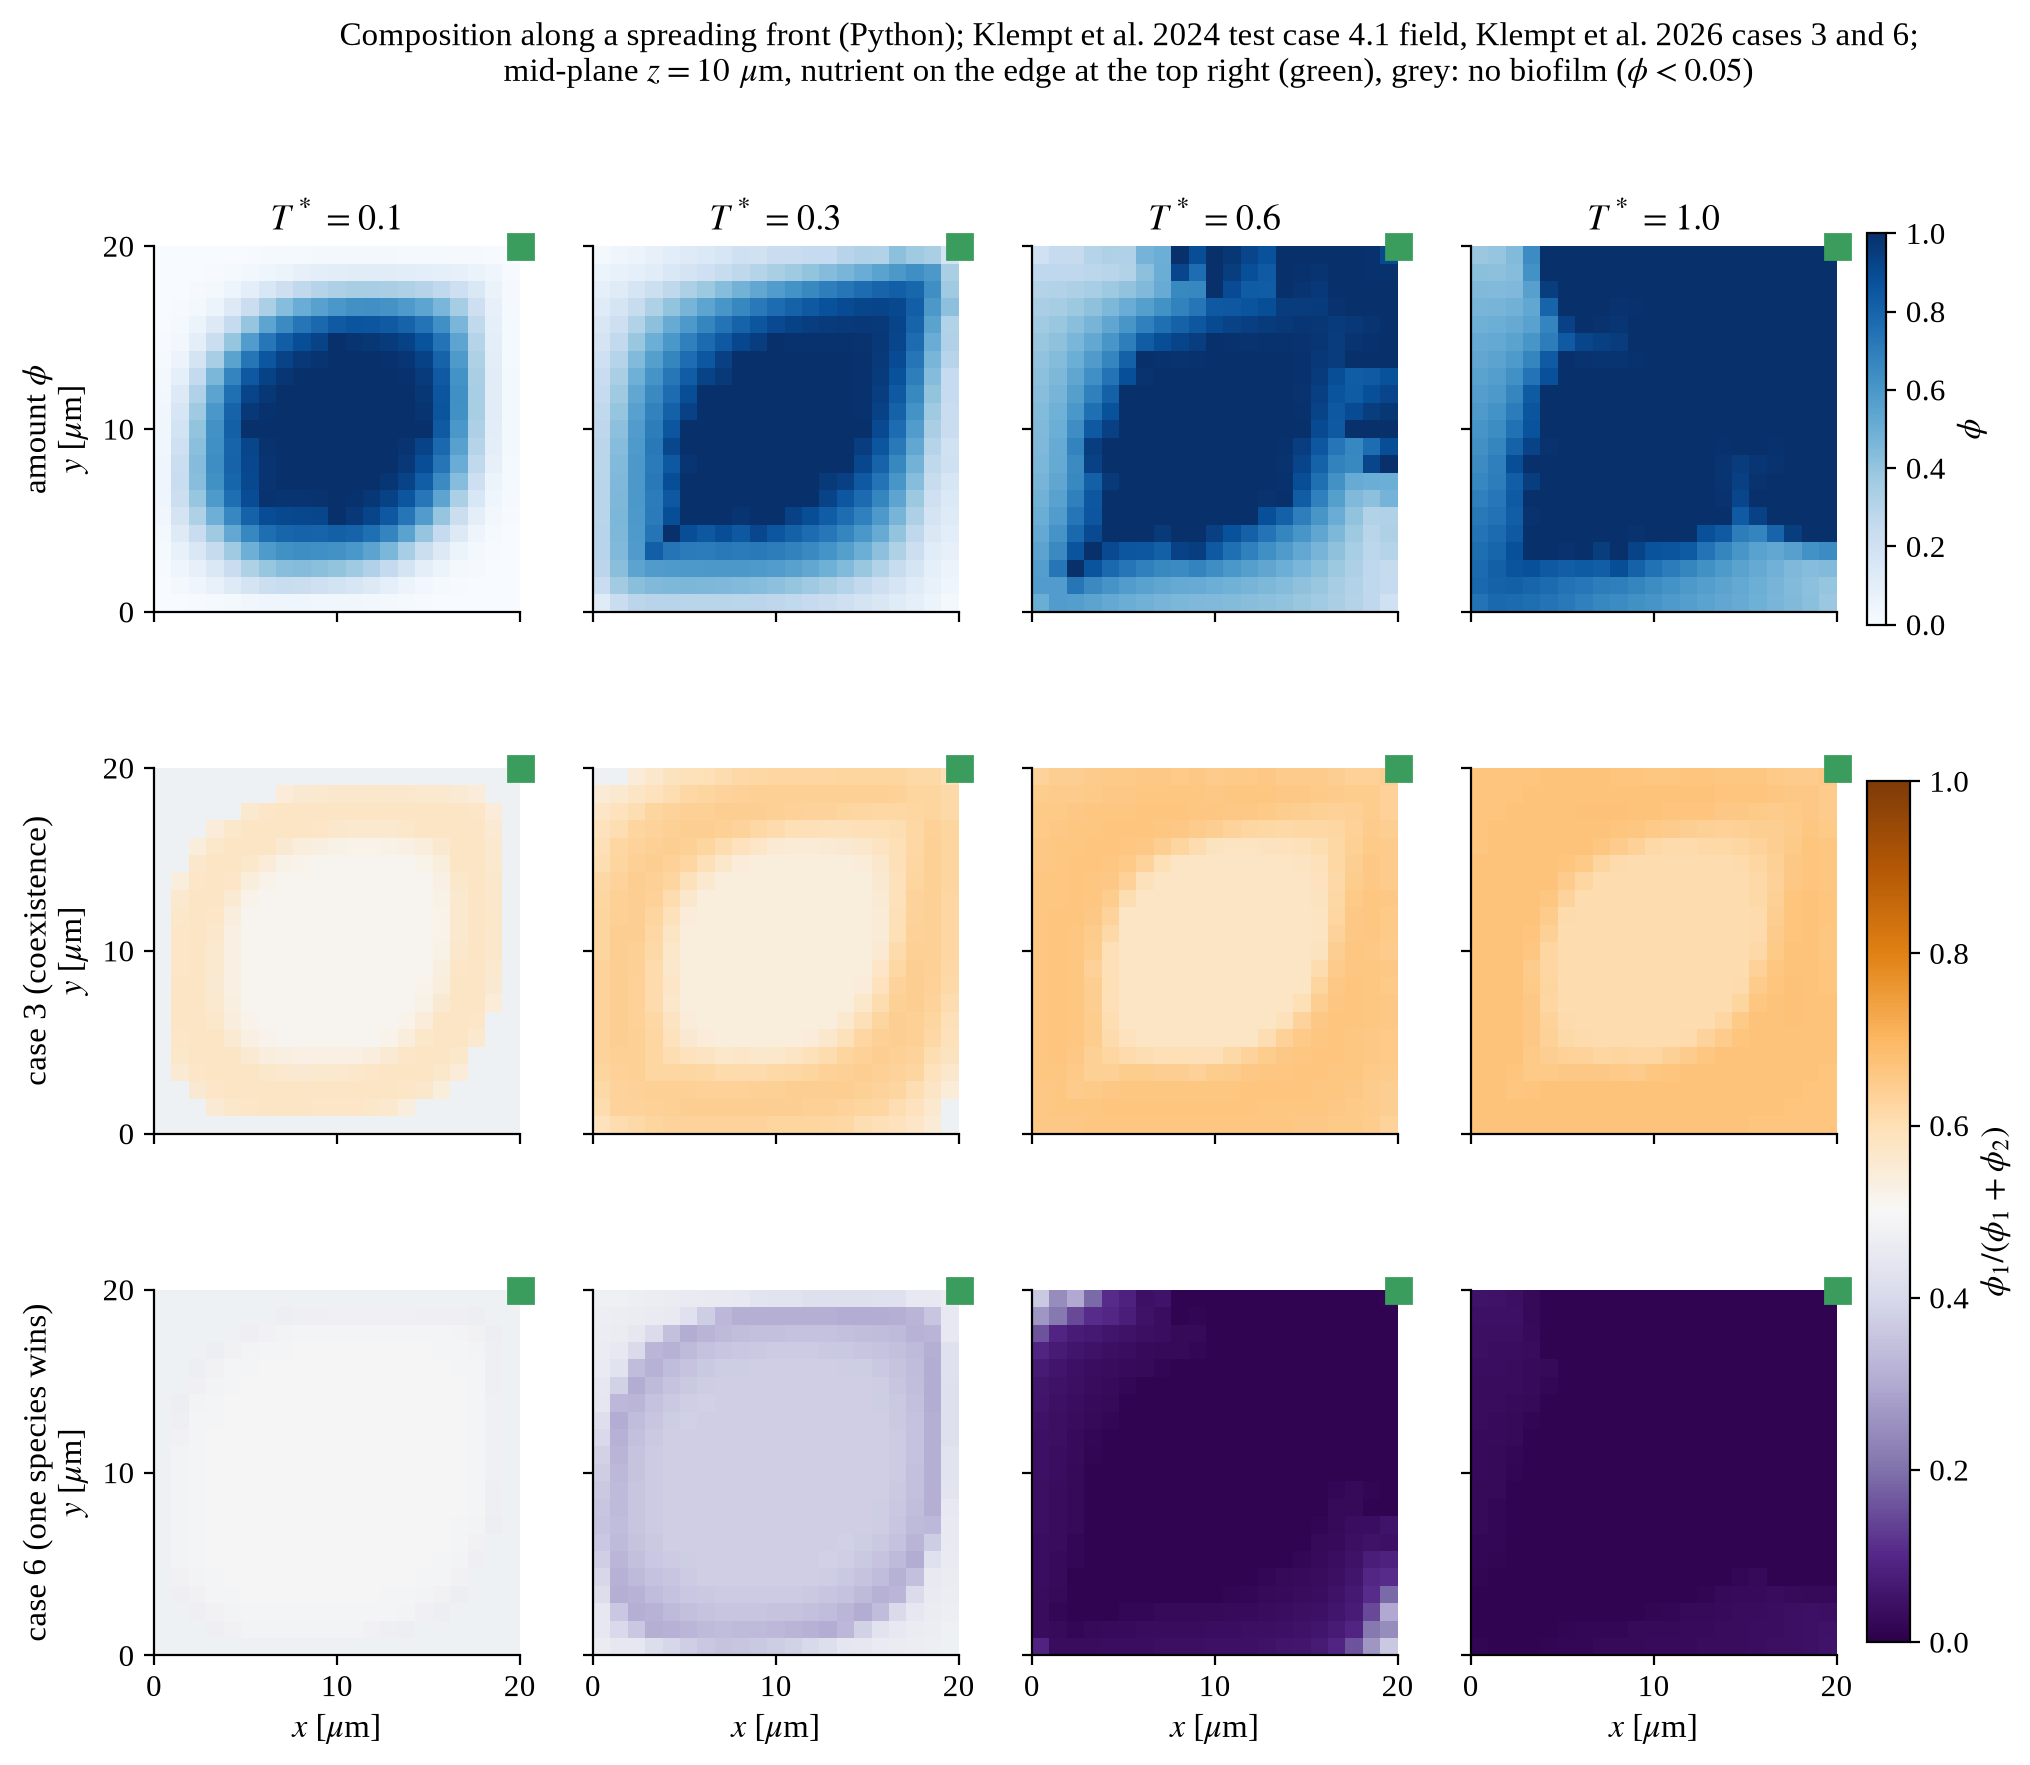
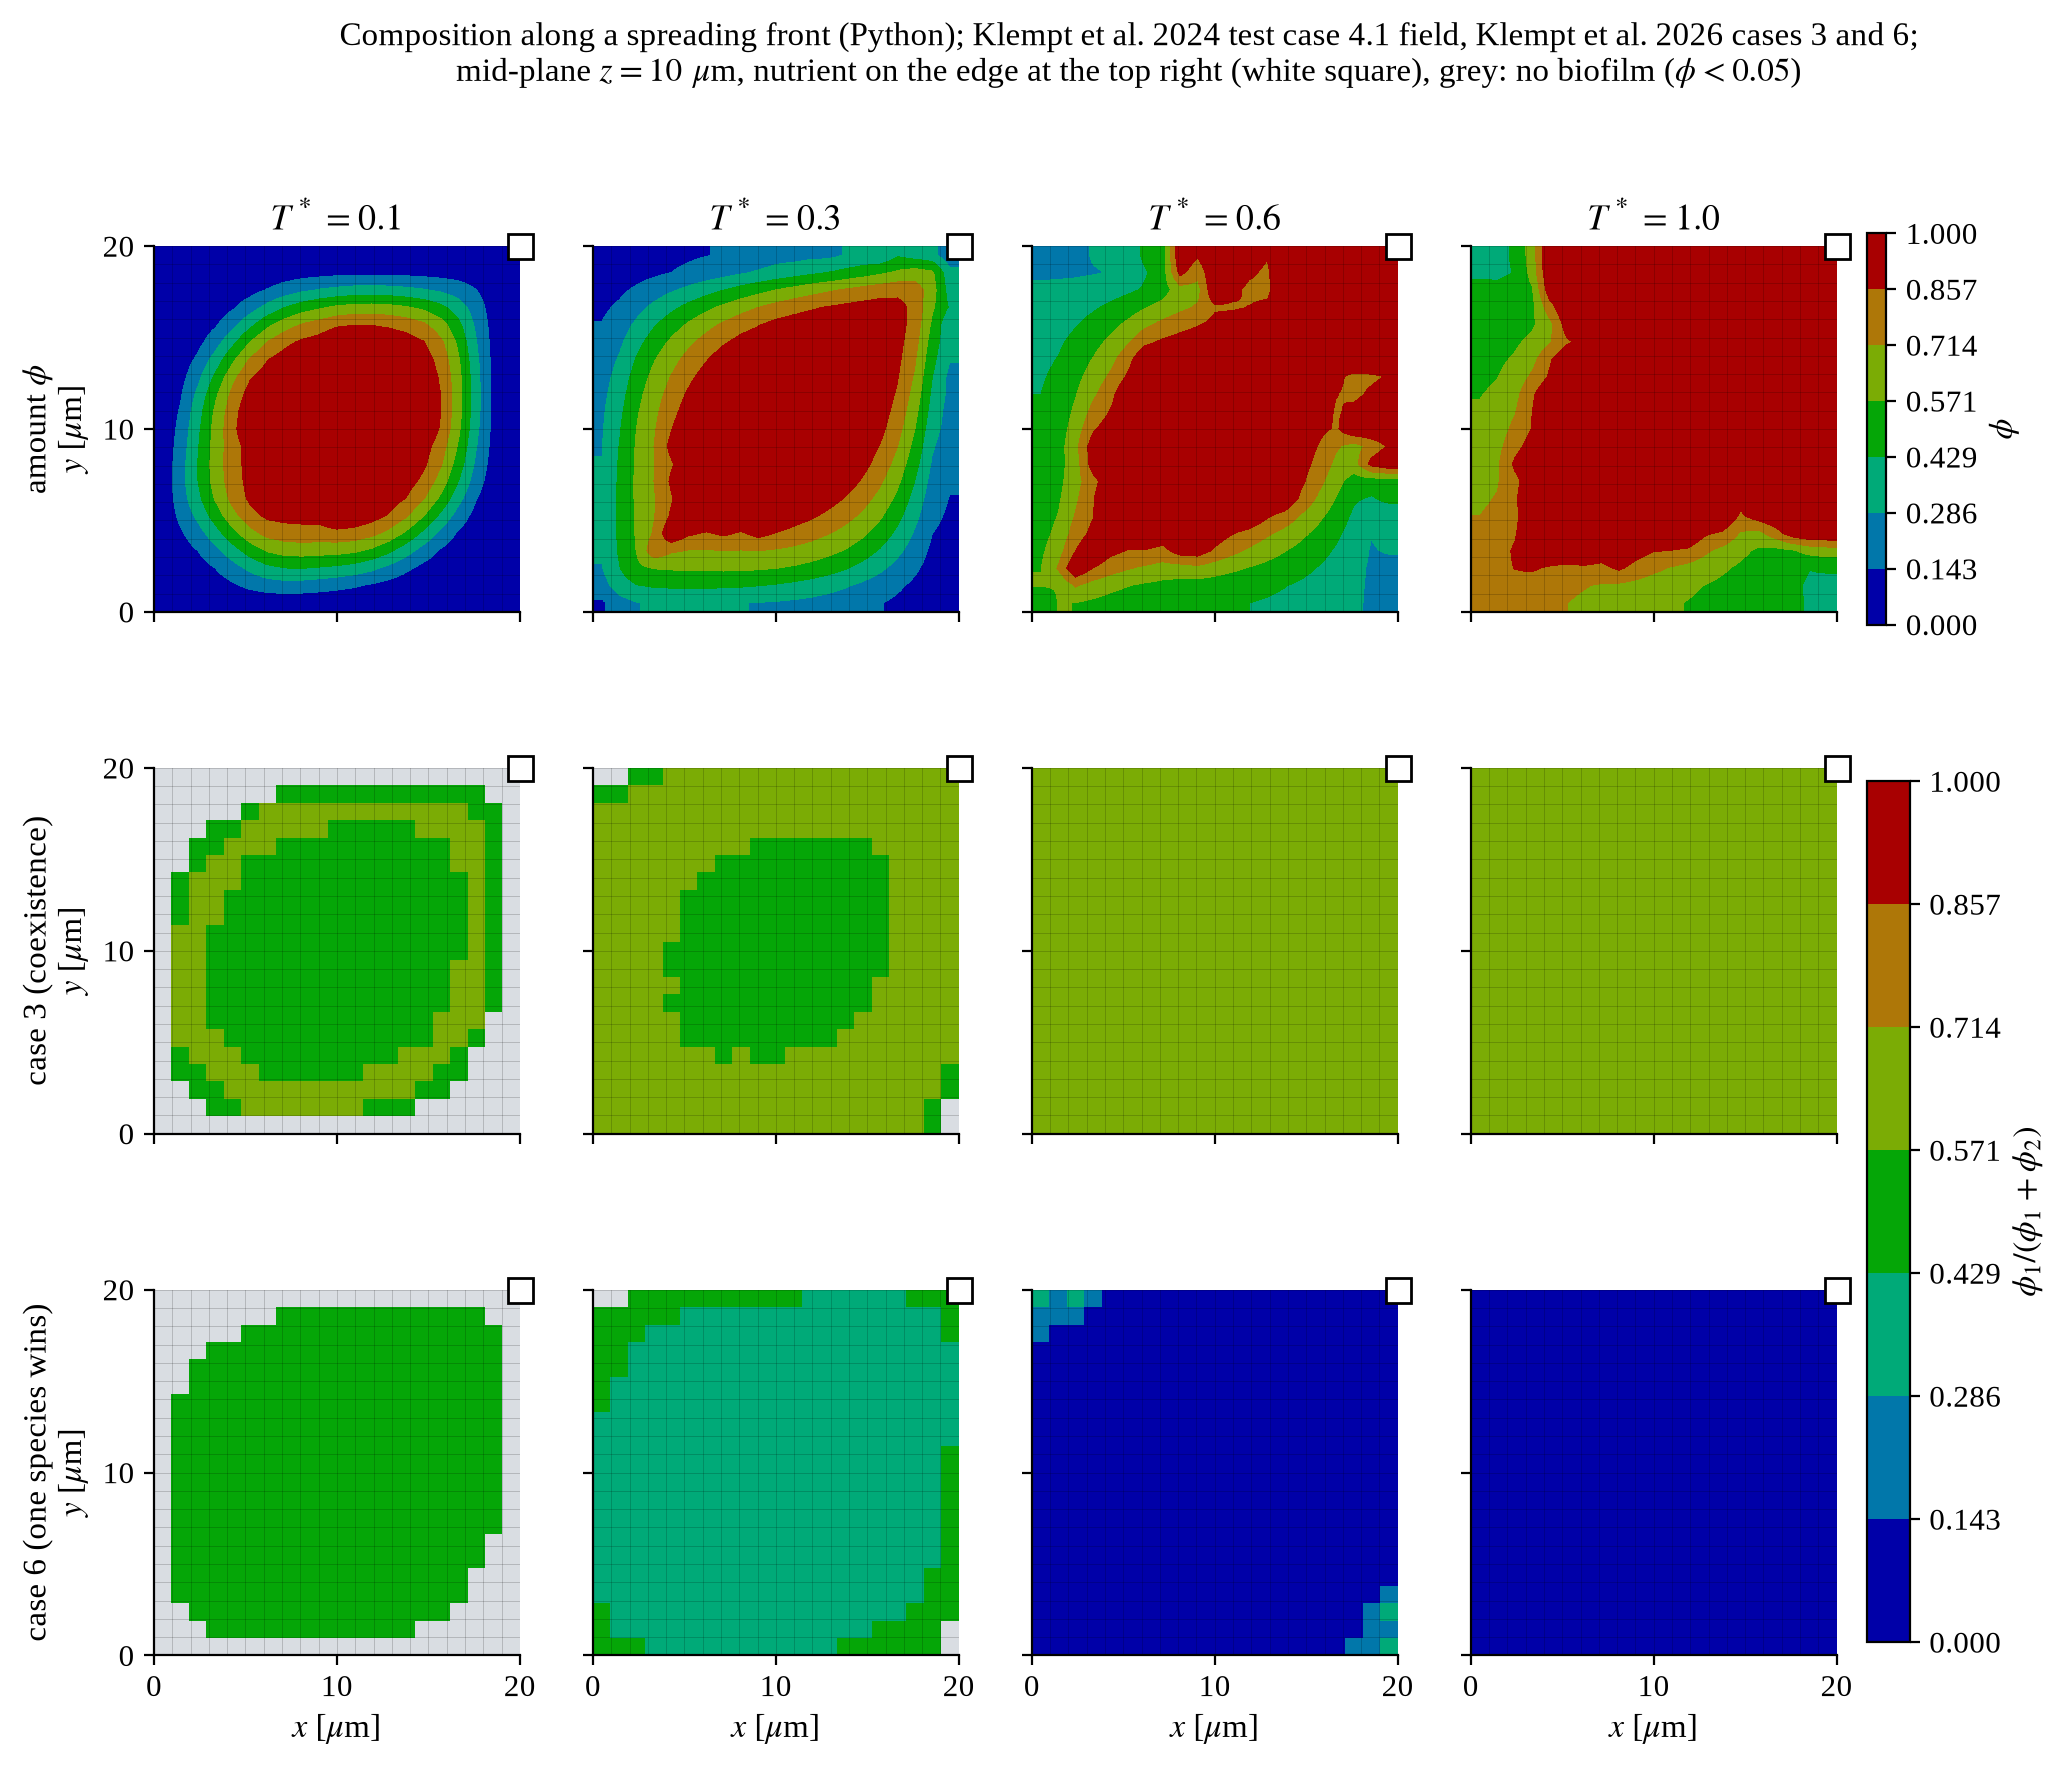
Paper's contour colours (figstyle.klempt_cmap); Table 3 side by side with the Python reproduction

diff --git a/JAXFEM/klempt2024_table3_fig.py b/JAXFEM/klempt2024_table3_fig.py
@@ -1,0 +1,108 @@
+#!/usr/bin/env python3
+"""Klempt et al. 2024 Table 3 (test case 4.1, growth from the centre towards
+the nutrient corner), redrawn from this repository's reproduction next to the
+paper's own panels.
+
+Field: klempt2024_timescale.py's fit (Table 2 unchanged, nutrient on the edge
+line, time scale 1.5, growth on both faces, consumption g phi c). Cut: the
+diagonal plane through the middle that the paper uses, with the nutrient
+corner at the top right (aspect sqrt(2) : 1). Colours: the paper's banded
+legend (figstyle.klempt_cmap). The paper's panels are cut from the PDF
+(CC BY 4.0, see THIRD_PARTY.md).
+
+    python JAXFEM/klempt2024_table3_fig.py   -> assets/fig_klempt2024_table3.png
+"""
+from __future__ import annotations
+
+import subprocess
+import sys
+import tempfile
+from pathlib import Path
+
+import matplotlib
+matplotlib.use("Agg")
+import matplotlib.pyplot as plt  # noqa: E402
+import numpy as np  # noqa: E402
+from PIL import Image  # noqa: E402
+
+HERE = Path(__file__).resolve().parent
+ROOT = HERE.parent
+sys.path.insert(0, str(HERE))
+sys.path.insert(0, str(ROOT / "ansys_usermat"))
+import figstyle  # noqa: E402
+import klempt2024_case1_bc as B  # noqa: E402
+import klempt2024_quantitative as K  # noqa: E402
+
+OUT = ROOT / "assets" / "fig_klempt2024_table3.png"
+PDF = ROOT / "references" / "Klempt2024_Hamilton_biofilm_growth_BMMB.pdf"
+TIMES = [0.05, 0.25, 0.45, 1.00]
+S = 1.5
+# Table 3 on page 11 at 300 dpi: phi and c columns, rows 5 / 25 / 45 / 100 %
+PAPER_COLS = {"phi": (957, 1287), "c": (1402, 1733)}
+PAPER_ROWS = [(291, 524), (536, 770), (782, 1015), (1028, 1262)]
+
+
+def fields():
+    K.R, K.BETA, K.K_A = 100 * S, 2 * S, 1e-3 * S
+    phi, _, _ = K.setup("fig4_edge")
+    mask = B.nutrient_mask("edge")
+    out, t = {}, 0.0
+    for t_next in TIMES:
+        _, phi, c = B.run_setup(phi, mask, 1e8, "ic", "first_order", "abs",
+                                t_end=round(t_next - t, 6))
+        out[t_next] = (phi.copy(), c.copy())
+        t = t_next
+    return out
+
+
+def diagonal_cut(u):
+    """The plane x = z (contains y): horizontal = the x = z diagonal, vertical
+    = y. The nutrient edge x = y = L meets it at (L, L, L): the top right."""
+    n = u.shape[0]
+    return np.array([[u[i, j, i] for i in range(n)] for j in range(n)])
+
+
+def paper_panels():
+    with tempfile.TemporaryDirectory() as tmp:
+        subprocess.run(["pdftoppm", "-f", "11", "-l", "11", "-r", "300", "-png", str(PDF),
+                        str(Path(tmp) / "p")], check=True)
+        im = Image.open(next(Path(tmp).glob("p*.png"))).convert("RGB")
+        return {(k, r): np.asarray(im.crop((x0, y0, x1, y1)))
+                for k, (x0, x1) in PAPER_COLS.items() for r, (y0, y1) in enumerate(PAPER_ROWS)}
+
+
+def main():
+    figstyle.apply(size=11)
+    cmap, norm = figstyle.klempt_cmap()
+    F = fields()
+    P = paper_panels()
+    L = K.L
+    fig, ax = plt.subplots(len(TIMES), 4, figsize=(12.5, 9.2))
+    heads = [r"$\phi$, this work", r"$\phi$, paper", r"$c$, this work", r"$c$, paper"]
+    for r, t in enumerate(TIMES):
+        phi, c = F[t]
+        for col, (kind, data) in enumerate((("sim", phi), ("pap", "phi"), ("sim", c), ("pap", "c"))):
+            a = ax[r, col]
+            if kind == "sim":
+                a.imshow(diagonal_cut(data), origin="lower", extent=(0, L * np.sqrt(2), 0, L),
+                         cmap=cmap, norm=norm, interpolation="bilinear", aspect="auto")
+                figstyle.element_grid(a, np.arange(0, 20.5) * np.sqrt(2), np.arange(0, 20.5))
+            else:
+                a.imshow(P[(data, r)], extent=(0, L * np.sqrt(2), 0, L), aspect="auto")
+            a.set_xticks([]); a.set_yticks([]); a.grid(False)
+            for sp in a.spines.values():
+                sp.set_visible(True)
+            if r == 0:
+                a.set_title(heads[col])
+        ax[r, 0].set_ylabel(f"{round(t * 100)} %")
+    sm = plt.cm.ScalarMappable(norm=norm, cmap=cmap)
+    fig.colorbar(sm, ax=ax, shrink=0.6, pad=0.02, label=r"$\phi$, $c$  [-]")
+    fig.suptitle("Klempt et al. 2024, test case 4.1 (Table 3): diagonal cut, nutrient corner at the "
+                 "top right.\nThis work: Python reproduction (Table 2, time scale 1.5, both-face growth, "
+                 r"consumption $g\phi c$); paper: Table 3 (CC BY 4.0)", fontsize=11.5)
+    fig.savefig(OUT, dpi=200)
+    print("wrote", OUT)
+
+
+if __name__ == "__main__":
+    main()

diff --git a/ansys_usermat/composition_spreading_fig.py b/ansys_usermat/composition_spreading_fig.py
@@ -61,21 +61,25 @@ def main():
     snaps = T.macro_snapshots()
     chis = {name: run(snaps, case) for case, name in T.CASES.items()}
     kz = T.K.N // 2
+    cmap, norm = figstyle.klempt_cmap()          # the paper's contour colours
     ext = (0, T.K.L, 0, T.K.L)
     fig, ax = plt.subplots(3, len(TIMES), figsize=(13, 9.6))
     for c, k in enumerate(TIMES):
         phi = snaps[k][:, :, kz].T
-        im0 = ax[0, c].imshow(phi, origin="lower", extent=ext, vmin=0, vmax=1, cmap="Blues")
+        im0 = ax[0, c].imshow(phi, origin="lower", extent=ext, cmap=cmap, norm=norm,
+                              interpolation="bilinear")
         ax[0, c].set_title(rf"$T^* = {k * T.DT:.1f}$")
         for r, name in enumerate(chis, start=1):
             chi = chis[name][k][:, :, kz].T
             chi = np.where(phi >= 0.05, chi, np.nan)     # show composition where there is biofilm
-            im = ax[r, c].imshow(chi, origin="lower", extent=ext, vmin=0, vmax=1, cmap="PuOr_r")
-            ax[r, c].set_facecolor("#eef1f4")
+            im = ax[r, c].imshow(chi, origin="lower", extent=ext, cmap=cmap, norm=norm,
+                                 interpolation="nearest")
+            ax[r, c].set_facecolor("#d9dde2")
         for r in range(3):
             a = ax[r, c]
             a.grid(False)
-            a.plot([T.K.L], [T.K.L], marker="s", ms=9, color="#3a9d5d", clip_on=False)
+            figstyle.element_grid(a, np.arange(0, 21), np.arange(0, 21), alpha=0.2)
+            a.plot([T.K.L], [T.K.L], marker="s", ms=9, color="white", mec="black", clip_on=False)
             a.set_xticks([0, 10, 20]); a.set_yticks([0, 10, 20])
             if c:
                 a.set_yticklabels([])
@@ -90,7 +94,7 @@ def main():
     fig.colorbar(im, ax=ax[1:, :], label=r"$\phi_1/(\phi_1+\phi_2)$", shrink=0.9, pad=0.015)
     fig.suptitle("Composition along a spreading front (Python); Klempt et al. 2024 test case 4.1 field, "
                  "Klempt et al. 2026 cases 3 and 6;\nmid-plane $z = 10\\ \\mu$m, nutrient on the edge "
-                 "at the top right (green), grey: no biofilm ($\\phi < 0.05$)", fontsize=12)
+                 "at the top right (white square), grey: no biofilm ($\\phi < 0.05$)", fontsize=12)
     fig.savefig(OUT, dpi=200)
     print("wrote", OUT)
     for name, d in chis.items():

diff --git a/ansys_usermat/figstyle.py b/ansys_usermat/figstyle.py
@@ -30,3 +30,28 @@ def apply(size=11):
         "savefig.dpi": 200,
         "savefig.bbox": "tight",
     })
+
+
+# Contour colours of Klempt et al. 2024 (Tables 3 and 4: ANSYS's default
+# legend, 7 bands from blue = 0 to red = 1), read off the PDF. The legend is
+# bright; the contour panels show the same bands shaded to about 2/3
+# brightness, which is what the eye remembers of the paper.
+KLEMPT_COLORS = ["#0000ff", "#00cbff", "#00ffcc", "#00ff00", "#cbff00", "#ffcb00", "#ff0000"]
+KLEMPT_PANEL_COLORS = ["#0000a8", "#0177aa", "#00aa78", "#05a607", "#7bac05", "#ae7708", "#a80001"]
+
+
+def klempt_cmap(vmin=0.0, vmax=1.0, shaded=True):
+    """(cmap, norm) in the paper's banded colours; shaded=True gives the
+    colours of its contour panels, False those of its legend."""
+    import numpy as np
+    from matplotlib.colors import BoundaryNorm, ListedColormap
+    cmap = ListedColormap(KLEMPT_PANEL_COLORS if shaded else KLEMPT_COLORS)
+    return cmap, BoundaryNorm(np.linspace(vmin, vmax, cmap.N + 1), cmap.N)
+
+
+def element_grid(ax, x_edges, y_edges, color="black", alpha=0.35, lw=0.3):
+    """Thin element edges over a contour panel, as in the paper's figures."""
+    for x in x_edges:
+        ax.axvline(x, color=color, alpha=alpha, lw=lw)
+    for y in y_edges:
+        ax.axhline(y, color=color, alpha=alpha, lw=lw)
